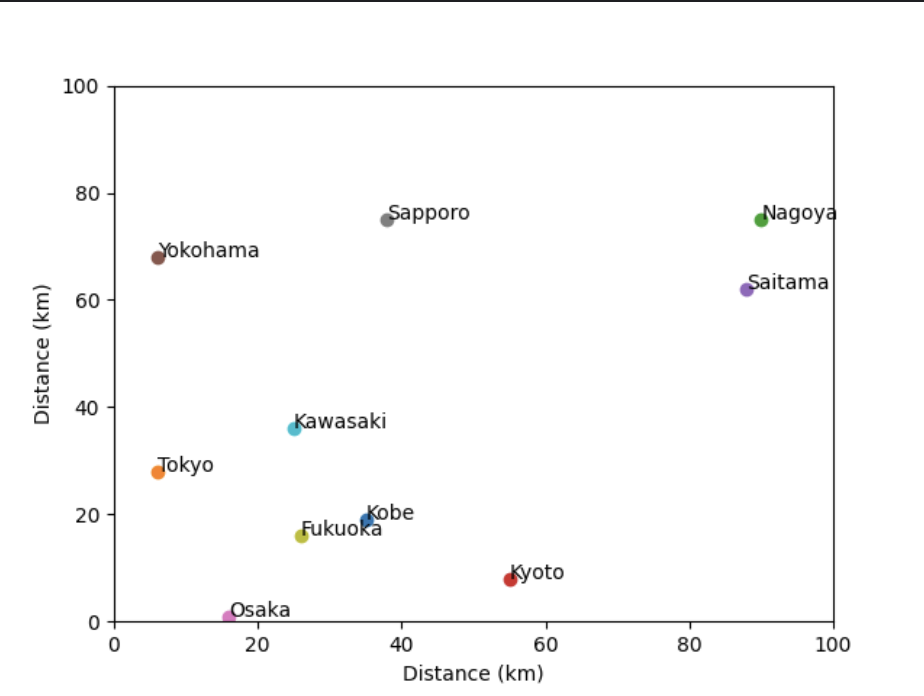
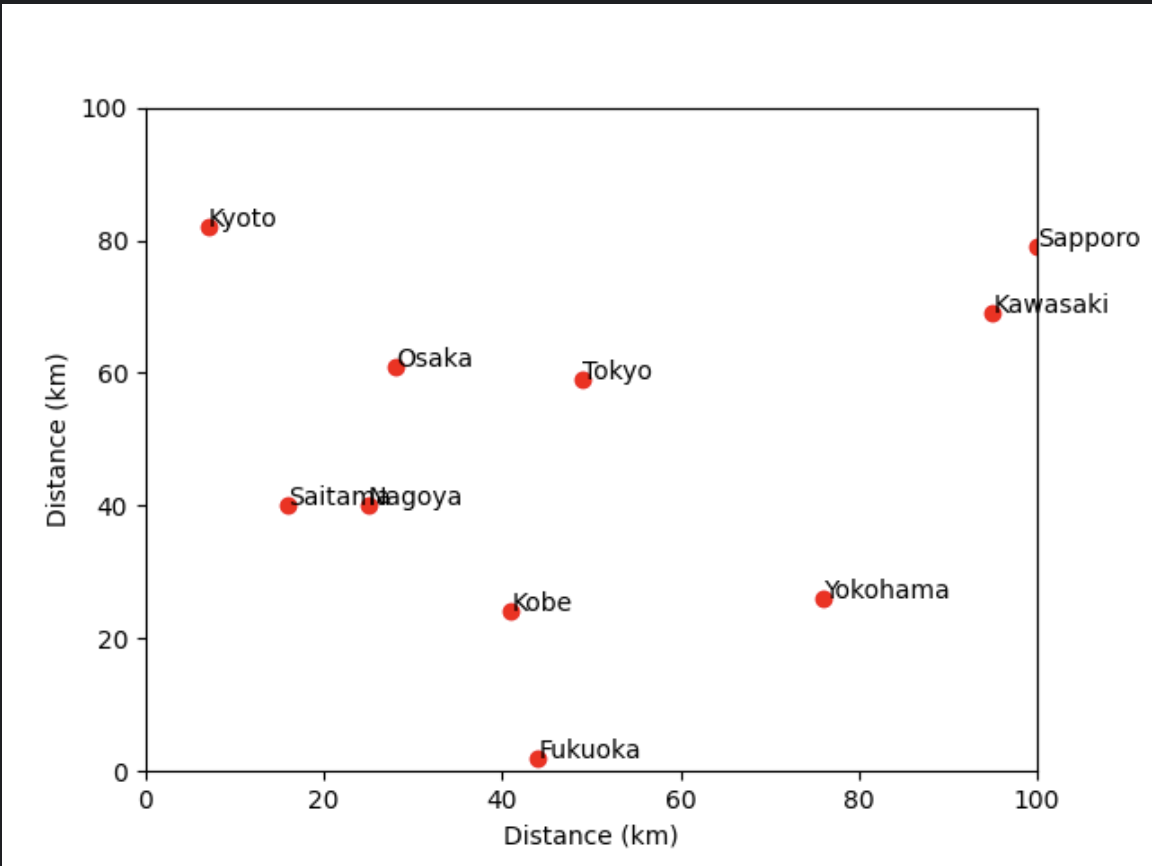
I dunno how to UML Diagram :)

diff --git a/quizzes/quiz_files/quiz_040.py b/quizzes/quiz_files/quiz_040.py
@@ -7,21 +7,19 @@ class quiz_040(MDApp):
     def button_pressed(self):
         screen = self.root.ids.my_screen
         button = self.root.ids.my_button
+        label = self.root.ids.my_label
 
-        if screen.md_bg_color == [1, 1, 1, 1]:
-            screen.md_bg_color = [0, 0, 0, 1]
-        else:
-            screen.md_bg_color = [1, 1, 1, 1]
-
-        if button.text == "Dark Mode":
-            button.text = "Light Mode"
-        else:
-            button.text = "Dark Mode"
-
-        if button.md_bg_color == [0, 0, 0, 1]:
-            button.md_bg_color = "white"
-        else:
+        if screen.md_bg_color == [0, 0, 0, 1]:
+            screen.md_bg_color = "white"
             button.md_bg_color = "black"
+            button.text = "Dark Mode"
+            label.text_color = "black"
+        else:
+            screen.md_bg_color = "black"
+            button.md_bg_color = "white"
+            button.text = "Light Mode"
+            label.text_color = "white"
+
 
 
 show = quiz_040()

diff --git a/quizzes/quiz_files/quiz_041.py b/quizzes/quiz_files/quiz_041.py
@@ -7,15 +7,16 @@ from kivy.core.window import Window
 class MyButton(MDFlatButton):
     pass
 
-class quiz_042(MDApp):
+class quiz_041(MDApp):
     def build(self):
         Window.size = (500, 500)
+        turn = 0
         return
 
-    def button_pressed(self, button):
-        button.text = "pressed"
-        button.md_bg_color = "#002aff"
+    def button_pressed_x(self, button):
+        button.text = "X"
+        button.md_bg_color = "#6d95fc"
 
 
-show = quiz_042()
+show = quiz_041()
 show.run()

diff --git a/quizzes/quiz_files/quiz_038.py b/quizzes/quiz_files/quiz_038.py
@@ -9,7 +9,7 @@ class SalemanMap:
 
     def get_map(self):
         for n in range(len(self.name)):
-            plt.plot((self.x[n]), (self.y[n]), marker="o")
+            plt.plot((self.x[n]), (self.y[n]), marker="o", color="red")
             plt.annotate(self.name[n],(self.x[n], self.y[n]))
         plt.xlabel("Distance (km)")
         plt.xlim(0,100)

diff --git a/quizzes/quiz_040(!).md b/quizzes/quiz_040(!).md
@@ -1,0 +1,76 @@
+# Quiz 040
+<hr>
+
+### Prompt
+![](images/quiz_040_slide.png)
+*fig. 1* **Screenshot of quiz slides**
+
+### Solution
+Python code:
+```.py
+from kivymd.app import MDApp
+
+class quiz_040(MDApp):
+    def build(self):
+        return
+
+    def button_pressed(self):
+        screen = self.root.ids.my_screen
+        button = self.root.ids.my_button
+        label = self.root.ids.my_label
+
+        if screen.md_bg_color == [0, 0, 0, 1]:
+            screen.md_bg_color = "white"
+            button.md_bg_color = "black"
+            button.text = "Dark Mode"
+            label.text_color = "black"
+        else:
+            screen.md_bg_color = "black"
+            button.md_bg_color = "white"
+            button.text = "Light Mode"
+            label.text_color = "white"
+
+
+
+show = quiz_040()
+show.run()
+```
+Kivymd code:
+```.kv
+MDScreen:
+        size: 1000,1000
+
+        MDBoxLayout:
+                id: my_screen
+                orientation: "vertical"
+                size_hint: 1, 1
+                pos_hint: {"center_x": .5, "center_y": .5}
+                md_bg_color: "white"
+
+                MDLabel:
+                        id: my_label
+                        text: "May"
+                        theme_text_color: "Custom"
+                        text_color: "black"
+                        font_style: "H2"
+                        halign: 'center'
+                        pos_hint: {"center_x": .5, "center_y": .5}
+
+                MDRaisedButton:
+                        id: my_button
+                        pos: 0,0
+                        text: "Dark Mode"
+                        text_color: "#999999"
+                        md_bg_color: "black"
+                        on_press:
+                                app.button_pressed()
+```
+
+### Evidence
+![](images/quiz_040_evidence1.png)
+![](images/quiz_040_evidence2.png)
+*fig. 2* **Screenshots of popup screen, light mode and dark mode**
+
+### UML Diagram
+![](images/quiz_001_bool.jpeg)
+*fig. 3* **UML Diagram for solution**

diff --git a/quizzes/quiz_038(!).md b/quizzes/quiz_038(!).md
@@ -18,7 +18,7 @@ class SalemanMap:
 
     def get_map(self):
         for n in range(len(self.name)):
-            plt.plot((self.x[n]), (self.y[n]), marker="o")
+            plt.plot((self.x[n]), (self.y[n]), marker="o", color="red")
             plt.annotate(self.name[n],(self.x[n], self.y[n]))
         plt.xlabel("Distance (km)")
         plt.xlim(0,100)

diff --git a/quizzes/quiz_039(!).md b/quizzes/quiz_039(!).md
@@ -24,7 +24,7 @@ show = quiz_039()
 show.run()
 ```
 Kivymd code:
-```.kivy
+```.kv
 Screen:
         size: 1000,1000
 
